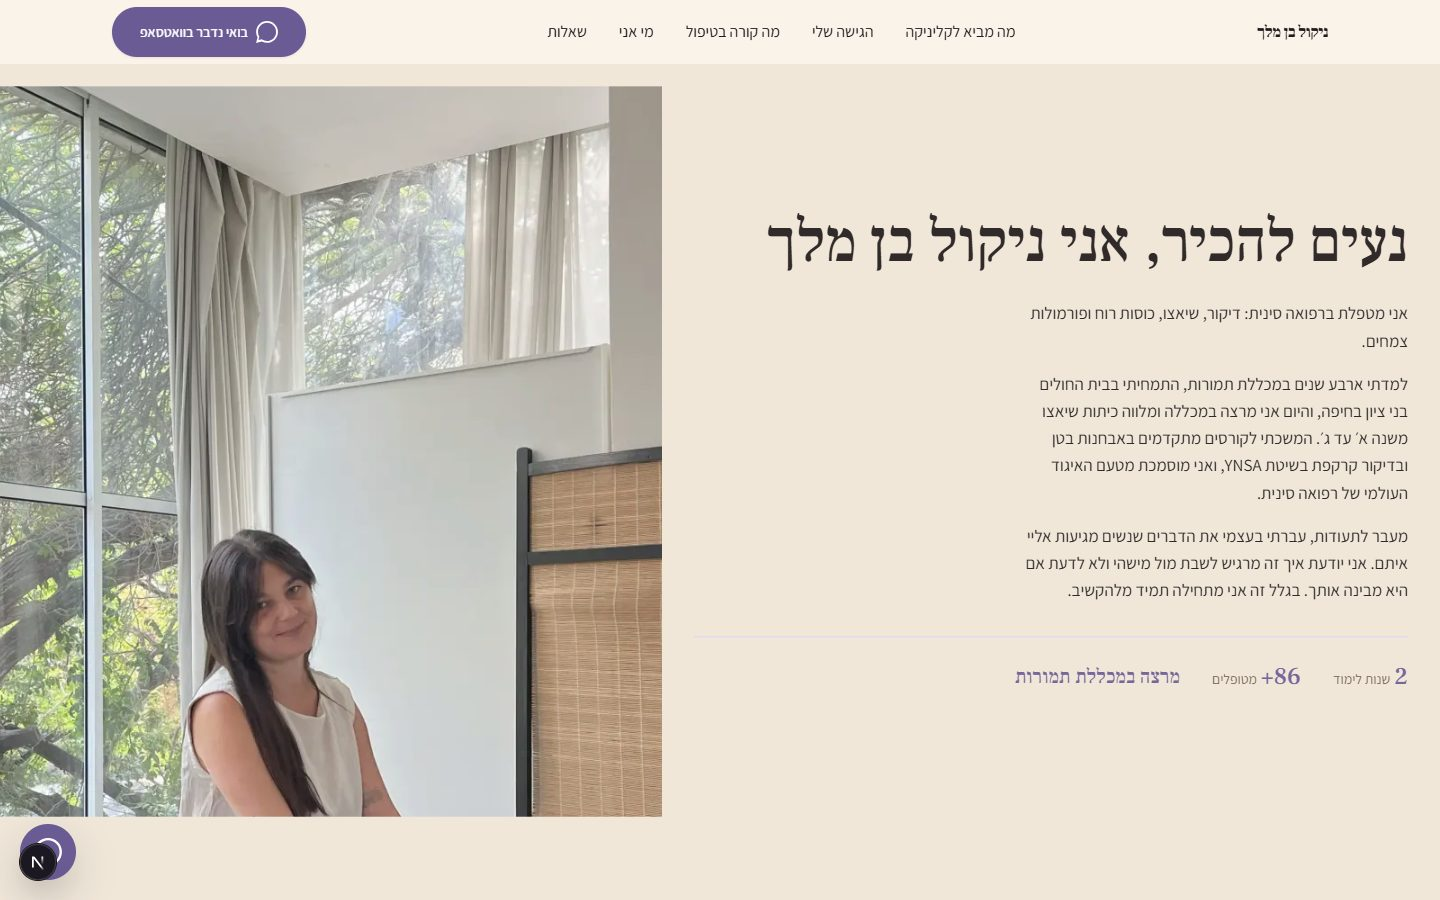
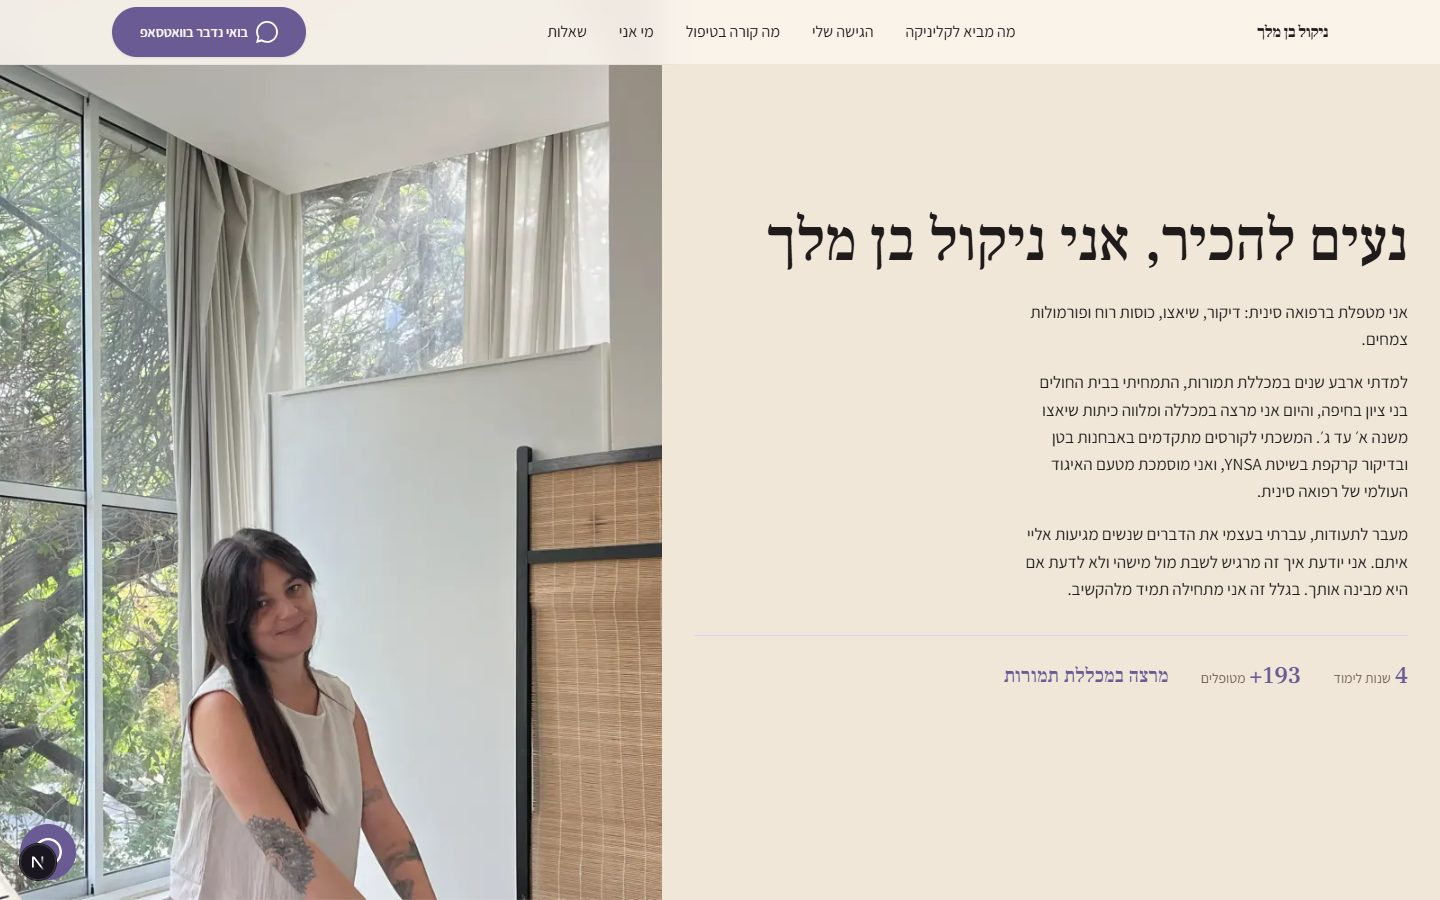
fix(hero): anchor the scrim to the content instead of a breakpoint, and align the sub-line

diff --git a/src/components/sections/Hero.tsx b/src/components/sections/Hero.tsx
@@ -59,10 +59,11 @@ export default function Hero() {
       <div
         data-scrim
         aria-hidden="true"
-        className="absolute inset-0 bg-[linear-gradient(to_top,rgba(32,27,27,0.94)_0%,rgba(32,27,27,0.86)_46%,rgba(32,27,27,0.55)_74%,transparent_94%)] md:bg-[linear-gradient(to_top,rgba(32,27,27,0.92)_0%,rgba(32,27,27,0.78)_30%,rgba(32,27,27,0.40)_58%,transparent_82%)]"
+        className="absolute inset-0 bg-[linear-gradient(to_top,rgba(32,27,27,0.72)_0%,rgba(32,27,27,0.42)_38%,rgba(32,27,27,0.18)_64%,transparent_88%)]"
       />
 
-      <div className="absolute inset-x-0 bottom-0 px-4 pb-12 sm:px-8 md:pb-20">
+      <div data-scrim
+        className="absolute inset-x-0 bottom-0 bg-[linear-gradient(to_top,rgba(32,27,27,0.88)_0%,rgba(32,27,27,0.80)_55%,rgba(32,27,27,0.55)_82%,transparent_100%)] px-4 pb-12 pt-28 sm:px-8 md:pb-20 md:pt-36">
         <ScrollReveal className="mx-auto flex w-full max-w-5xl flex-col items-start text-start">
           <h1 className="text-balance font-display text-3xl font-bold leading-[1.15] text-white sm:text-4xl lg:text-5xl">
             ווסת שמכאיבה. עיכול שלא מסתדר. כאב שחוזר ולא עובר.
@@ -71,7 +72,7 @@ export default function Hero() {
             רפואה סינית לנשים, בקליניקה בתל אביב. מתחילות באבחון, ומשם מטפלות בשורש.
           </p>
           <div className="mt-8">
-            <WhatsAppLeadButton tone="onImage" buttonClassName="text-base md:text-lg px-8 py-4" />
+            <WhatsAppLeadButton tone="onImage" align="start" buttonClassName="text-base md:text-lg px-8 py-4" />
           </div>
         </ScrollReveal>
       </div>

diff --git a/src/components/WhatsAppLeadButton.tsx b/src/components/WhatsAppLeadButton.tsx
@@ -22,6 +22,17 @@ export interface WhatsAppLeadButtonProps {
   tone?: 'default' | 'onImage'
   /** Show the "לא קובעות כלום לפני שדיברנו." sub-line beneath the button. Default true. */
   showSubtext?: boolean
+  /**
+   * Where the button and its sub-line sit inside their own box.
+   *
+   * 'center' keeps the historical behaviour. 'start' exists because the
+   * centred sub-line lands 39px inside the content column: the wrapper centres
+   * it under the BUTTON, not under the column, so in a left-aligned text block
+   * it reads as a stray indent. Passing a className cannot fix this — items-center
+   * and items-start carry equal specificity and the winner depends on stylesheet
+   * order, not on the order they are written in.
+   */
+  align?: 'center' | 'start'
   /** Classes for the outer wrapper (button + optional sub-line). */
   className?: string
   /** Classes for the <a> button itself, for per-section sizing/placement. */
@@ -39,6 +50,7 @@ export function WhatsAppLeadButton({
   funnel = WHATSAPP_FUNNEL,
   message,
   showSubtext = true,
+  align = 'center',
   tone = 'default',
   className = '',
   buttonClassName = '',
@@ -46,7 +58,9 @@ export function WhatsAppLeadButton({
   const finalMessage = message ?? buildWhatsAppMessage(funnel)
 
   return (
-    <div className={`inline-flex flex-col items-center gap-2 text-center ${className}`}>
+    <div
+      className={`inline-flex flex-col gap-2 ${align === 'start' ? 'items-start text-start' : 'items-center text-center'} ${className}`}
+    >
       <a
         href={buildWhatsAppUrl(phone, finalMessage)}
         target="_blank"
